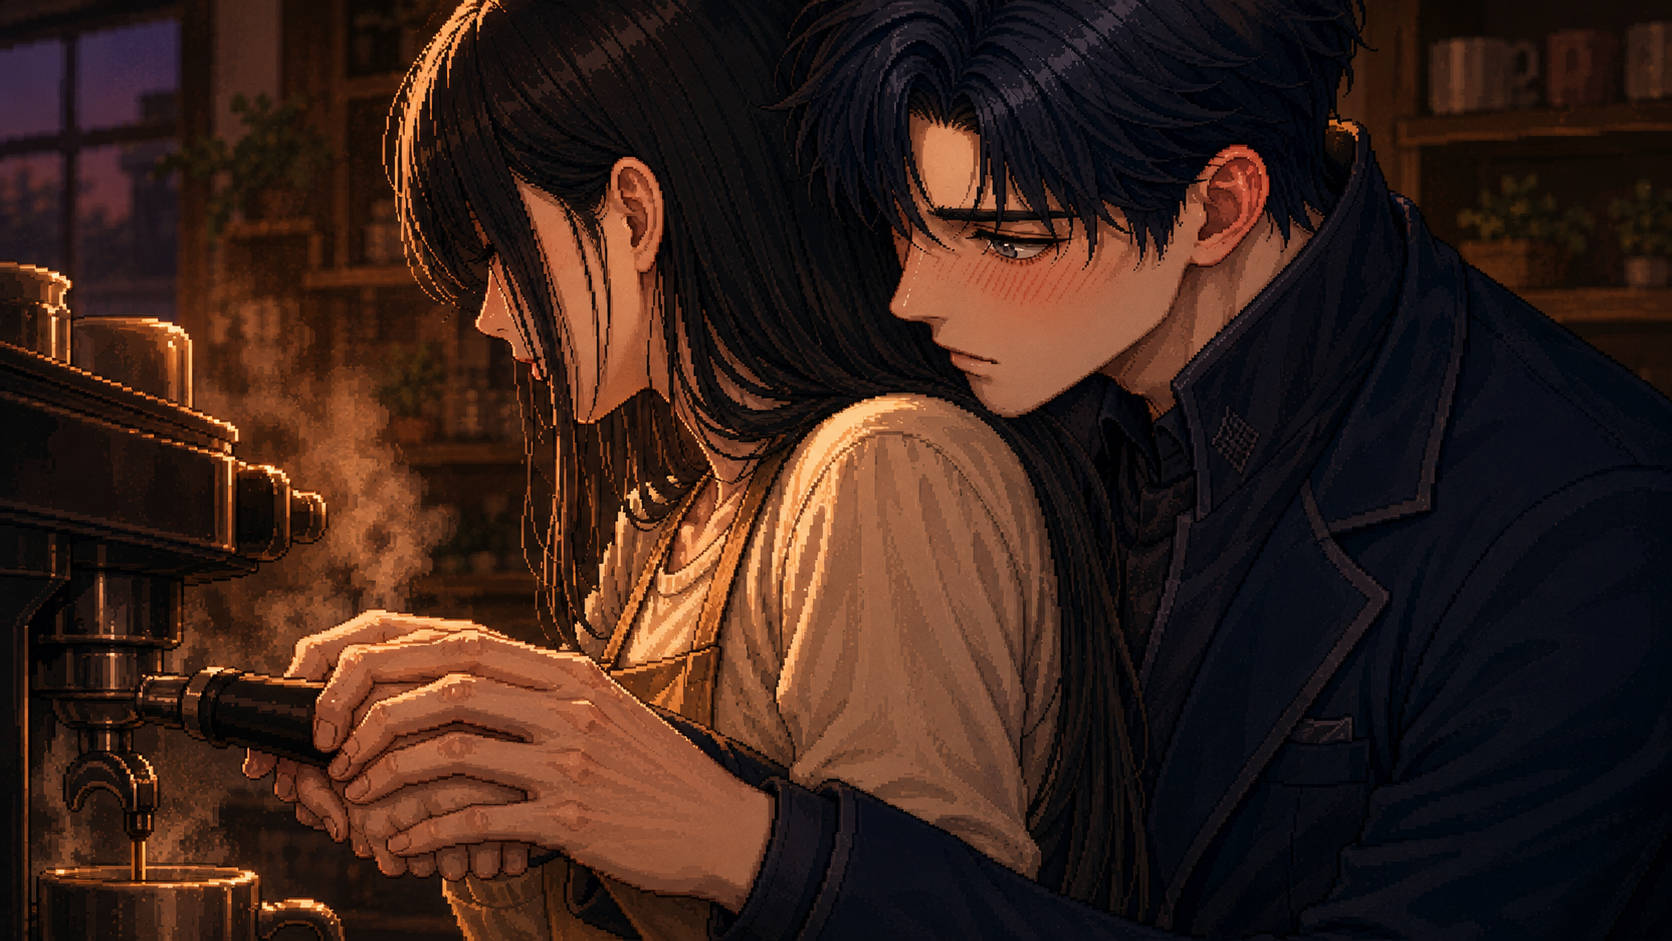
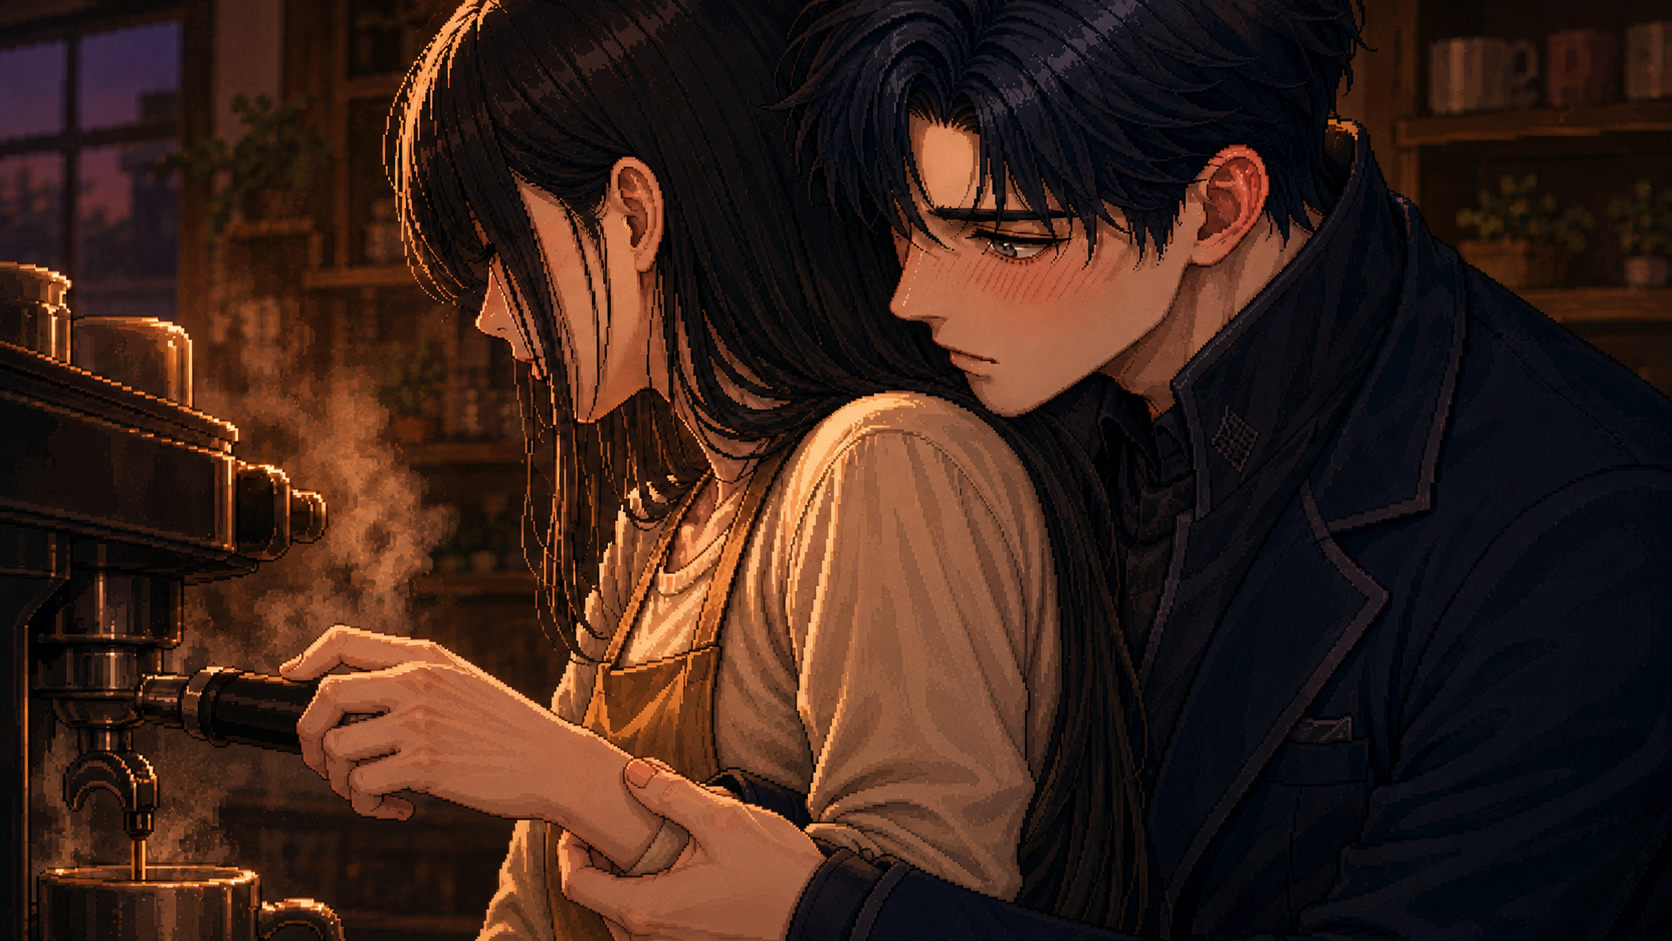
修复BGM: 预加载+autoplay重试机制+首次点击恢复播放

diff --git a/game.js b/game.js
@@ -1486,11 +1486,23 @@ class BGMManager {
   }
 
   startNew(cfg) {
+    var self = this;
     this.audio = new Audio(cfg.file);
     this.audio.loop = true;
     this.audio.volume = this.volume;
-    this.audio.play().catch(function() {});
-    this.audio.onerror = function() { /* file not found - silent */ };
+    this.audio.preload = 'auto';
+    var tryPlay = function() {
+      self.audio.play().then(function() {
+      }).catch(function() {
+        // autoplay blocked, will retry on user interaction
+        self._needsResume = true;
+      });
+    };
+    this.audio.oncanplaythrough = tryPlay;
+    this.audio.onerror = function() { self._needsResume = true; };
+    // Also try immediately (for cached files)
+    this.audio.load();
+    if (this.audio.readyState >= 3) tryPlay();
   }
 
   fadeOutAndPlay(cfg, instant) {
@@ -2908,6 +2920,10 @@ class Game {
     // Dialogue box click to advance
     document.getElementById('dialogue-box').addEventListener('click', () => {
       if (this.state.isInMenu) return;
+      // 首次交互恢复BGM（浏览器autoplay限制）
+      if (this.bgm && this.bgm.audio && this.bgm._needsResume) {
+        this.bgm.audio.play().then(function() { this._needsResume = false; }.bind(this.bgm)).catch(function(){});
+      }
       if (!this.state.isTyping) { if (this.sfx) this.sfx.click(); this.advanceLine(); }
     });
 
@@ -3132,6 +3148,8 @@ class Game {
     // Init BGM volume
     if (this.bgm) this.bgm.setVolume((settings.get('bgmVolume') || 35) / 100);
     if (this.sfx) this.sfx.setVolume((settings.get('sfxVolume') || 30) / 100);
+    // 开场BGM
+    if (this.bgm) this.bgm.play('intro', true);
 
     // Tutorial - show on first visit
     if (this.tutorial) this.tutorial.start();
